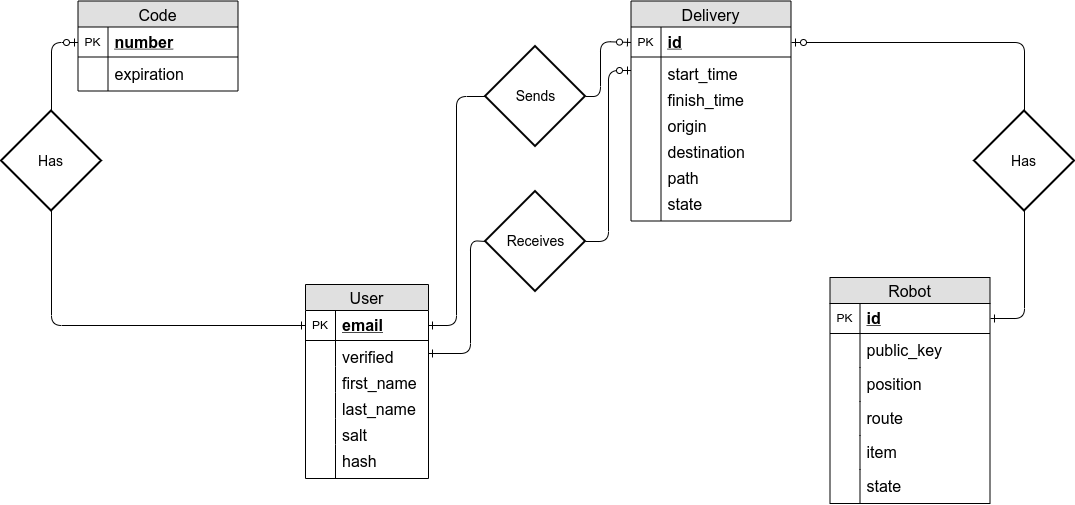
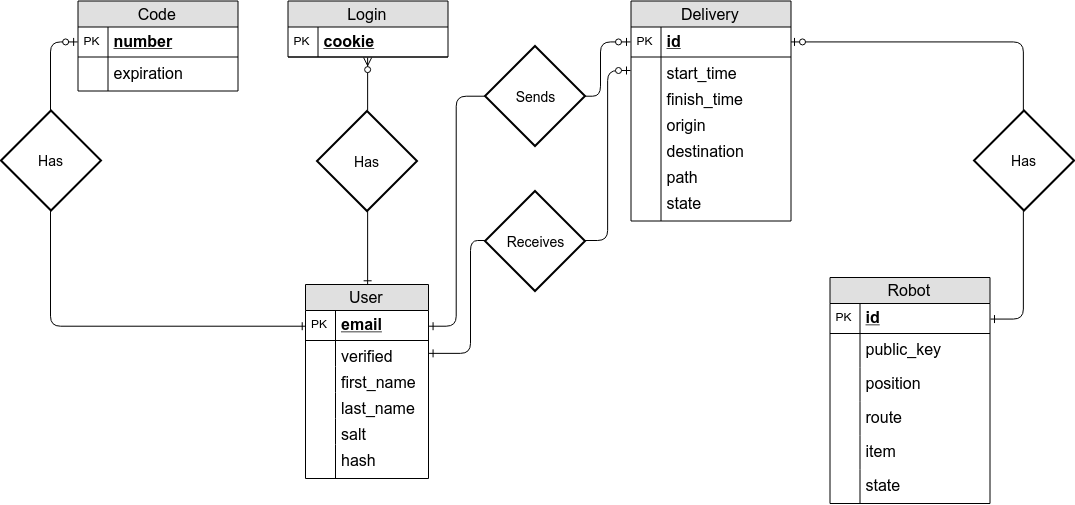
Implemented user services

diff --git a/server/software/server.py b/server/software/server.py
@@ -47,7 +47,8 @@ class HTTPRequestHandler(http.server.SimpleHTTPRequestHandler):
 
             try:
                 script.main(self)
-            except:
+            except Exception as e:
+                print(e)
                 self.send_error(500)
                 self.end_headers()
         else:
@@ -64,12 +65,12 @@ class HTTPRequestHandler(http.server.SimpleHTTPRequestHandler):
         if not os.path.exists(path):
             path += ".py"
         elif not os.path.isfile(path):
-            path += "/index.py"
+            path += "index.py"
 
         mimetype = mimetypes.guess_type(path)
 
         if os.path.exists(path) and mimetype[0] == "text/x-python":
-            module_name = path.replace(".py", "").replace("/", ".").strip(".")
+            module_name = "public." + path.replace(".py", "").replace("/", ".").strip(".")
             if module_name in self.script_cache:
                 if self.script_cache[module_name]["lastmodified"] < os.path.getmtime(path):
                     self.script_cache[module_name]["module"] = importlib.reload(self.script_cache[module_name]["module"])
@@ -85,7 +86,8 @@ class HTTPRequestHandler(http.server.SimpleHTTPRequestHandler):
 
             try:
                 script.main(self)
-            except:
+            except Exception as e:
+                print(e)
                 self.send_error(500)
                 self.end_headers()
         else:
@@ -98,12 +100,12 @@ class HTTPRequestHandler(http.server.SimpleHTTPRequestHandler):
         if not os.path.exists(path):
             path += ".py"
         elif not os.path.isfile(path):
-            path += "/index.py"
+            path += "index.py"
 
         mimetype = mimetypes.guess_type(path)
 
         if os.path.exists(path) and mimetype[0] == "text/x-python":
-            module_name = path.replace(".py", "").replace("/", ".").strip(".")
+            module_name = "public." + path.replace(".py", "").replace("/", ".").strip(".")
             if module_name in self.script_cache:
                 if self.script_cache[module_name]["lastmodified"] < os.path.getmtime(path):
                     self.script_cache[module_name]["module"] = importlib.reload(self.script_cache[module_name]["module"])
@@ -119,7 +121,8 @@ class HTTPRequestHandler(http.server.SimpleHTTPRequestHandler):
 
             try:
                 script.main(self)
-            except:
+            except Exception as e:
+                print(e)
                 self.send_error(500)
                 self.end_headers()
         else:
@@ -132,12 +135,12 @@ class HTTPRequestHandler(http.server.SimpleHTTPRequestHandler):
         if not os.path.exists(path):
             path += ".py"
         elif not os.path.isfile(path):
-            path += "/index.py"
+            path += "index.py"
 
         mimetype = mimetypes.guess_type(path)
 
         if os.path.exists(path) and mimetype[0] == "text/x-python":
-            module_name = path.replace(".py", "").replace("/", ".").strip(".")
+            module_name = "public." + path.replace(".py", "").replace("/", ".").strip(".")
             if module_name in self.script_cache:
                 if self.script_cache[module_name]["lastmodified"] < os.path.getmtime(path):
                     self.script_cache[module_name]["module"] = importlib.reload(self.script_cache[module_name]["module"])
@@ -153,7 +156,8 @@ class HTTPRequestHandler(http.server.SimpleHTTPRequestHandler):
 
             try:
                 script.main(self)
-            except:
+            except Exception as e:
+                print(e)
                 self.send_error(500)
                 self.end_headers()
         else:

diff --git a/server/software/public/user/signin.py b/server/software/public/user/signin.py
@@ -1,3 +1,55 @@
+import json
+import connect
+import mysql.connector
+import hashlib
+import http.cookies
+import os
+
 def main(handler):
-    handler.send_response(200)
-    handler.end_headers()
+    if handler.command == "POST":
+        if "Content-Type" in handler.headers and handler.headers["Content-Type"] == "application/json":
+            data = json.loads(handler.rfile.read(int(handler.headers["Content-Length"])).decode("utf-8"))
+            if "email" in data and "password" in data:
+                handler.send_response(200)
+                connection = connect.connect()
+                cursor = connection.cursor(prepared = True)
+                query = "SELECT salt, hash FROM User WHERE email = %s"
+                values = (data["email"],)
+                try:
+                    cursor.execute(query, values)
+                    result = cursor.fetchone()
+                    if result:
+                        salt = bytes.fromhex(result[0])
+                        hash = hashlib.pbkdf2_hmac("sha256", data["password"].encode("utf-8"), salt, 100000)
+                        if hash == bytes.fromhex(result[1]):
+                            cookie = http.cookies.SimpleCookie()
+                            cookie["token"] = os.urandom(32).hex()
+                            query = "INSERT INTO Login(cookie, email) VALUES (%s, %s)"
+                            values = (cookie["token"].value, data["email"],)
+                            try:
+                                cursor.execute(query, values)
+                                connection.commit()
+                                resp = "true"
+                                handler.send_header("Set-Cookie", cookie.output(header = "", sep = ""))
+                            except mysql.connector.Error:
+                                resp = "false"
+                        else:
+                            resp = "false"
+                    else:
+                        resp = "false"
+                    handler.end_headers()
+                    handler.wfile.write(resp.encode("utf-8"))
+                except mysql.connector.Error:
+                    handler.end_headers()
+                    handler.wfile.write("false".encode("utf-8"))
+                cursor.close()
+                connection.close()
+            else:
+                handler.send_error(400)
+                handler.end_headers()
+        else:
+            handler.send_error(400)
+            handler.end_headers()
+    else:
+        handler.send_error(501)
+        handler.end_headers()

diff --git a/server/software/public/user/signup.py b/server/software/public/user/signup.py
@@ -1,3 +1,36 @@
+import json
+import connect
+import mysql.connector
+import os
+import hashlib
+
 def main(handler):
-    handler.send_response(200)
-    handler.end_headers()
+    if handler.command == "POST":
+        if "Content-Type" in handler.headers and handler.headers["Content-Type"] == "application/json":
+            data = json.loads(handler.rfile.read(int(handler.headers["Content-Length"])).decode("utf-8"))
+            if "email" in data and "first_name" in data and "last_name" in data and "password" in data:
+                handler.send_response(200)
+                handler.end_headers()
+                connection = connect.connect()
+                cursor = connection.cursor(prepared = True)
+                query = "INSERT INTO User(email, verified, first_name, last_name, salt, hash) VALUES (%s, %s, %s, %s, %s, %s)"
+                salt = os.urandom(32)
+                hash = hashlib.pbkdf2_hmac("sha256", data["password"].encode("utf-8"), salt, 100000)
+                values = (data["email"], 0, data["first_name"], data["last_name"], salt.hex(), hash.hex(),)
+                try:
+                    cursor.execute(query, values)
+                    connection.commit()
+                    handler.wfile.write("true".encode("utf-8"))
+                except mysql.connector.Error:
+                    handler.wfile.write("false".encode("utf-8"))
+                cursor.close()
+                connection.close()
+            else:
+                handler.send_error(400)
+                handler.end_headers()
+        else:
+            handler.send_error(400)
+            handler.end_headers()
+    else:
+        handler.send_error(501)
+        handler.end_headers()

diff --git a/server/software/public/user/check.py b/server/software/public/user/check.py
@@ -1,3 +1,33 @@
+import json
+import connect
+import mysql.connector
+
 def main(handler):
-    handler.send_response(200)
-    handler.end_headers()
+    if handler.command == "POST":
+        if "Content-Type" in handler.headers and handler.headers["Content-Type"] == "application/json":
+            data = json.loads(handler.rfile.read(int(handler.headers["Content-Length"])).decode("utf-8"))
+            if "email" in data:
+                handler.send_response(200)
+                handler.end_headers()
+                connection = connect.connect()
+                cursor = connection.cursor(prepared = True)
+                query = "SELECT email FROM User WHERE email = %s"
+                values = (data["email"],)
+                try:
+                    cursor.execute(query, values)
+                    result = cursor.fetchone()
+                    resp = "true" if result else "false"
+                    handler.wfile.write(resp.encode("utf-8"))
+                except mysql.connector.Error:
+                    handler.wfile.write("false".encode("utf-8"))
+                cursor.close()
+                connection.close()
+            else:
+                handler.send_error(400)
+                handler.end_headers()
+        else:
+            handler.send_error(400)
+            handler.end_headers()
+    else:
+        handler.send_error(501)
+        handler.end_headers()

diff --git a/server/software/client.py b/server/software/client.py
@@ -1,0 +1,19 @@
+import urllib.request
+import ssl
+import json
+
+def getFromURL(url, data_dict, method = "POST"):
+    data = json.dumps(data_dict).encode("utf-8")
+    headers = {"Content-Type": "application/json"}
+    req = urllib.request.Request(url, data, headers, method = method)
+    resp = urllib.request.urlopen(req, context = ssl._create_unverified_context())
+    return resp
+
+def main():
+    data = {"email": "natanajunges@gmail.com", "password": "jn1ua9ntg9ae8ns"}
+    resp = getFromURL("https://ec2-18-229-140-84.sa-east-1.compute.amazonaws.com/user/signin", data)
+    print(resp.read().decode("utf-8"))
+    print(resp.getheader("Set-Cookie"))
+
+if __name__ == "__main__":
+    main()

diff --git a/server/software/connect.py b/server/software/connect.py
@@ -1,0 +1,13 @@
+import mysql.connector
+
+def main(handler):
+    handler.send_error(403)
+    handler.end_headers()
+
+def connect():
+    try:
+        connection = mysql.connector.connect(host = "dlvr.cvxnw3a2asye.sa-east-1.rds.amazonaws.com", database = "dlvr", user = "admin", password = "dlvr_oi3_2019_2")
+        if connection.is_connected():
+            return connection
+    except mysql.connector.Error as e:
+        print(e)
